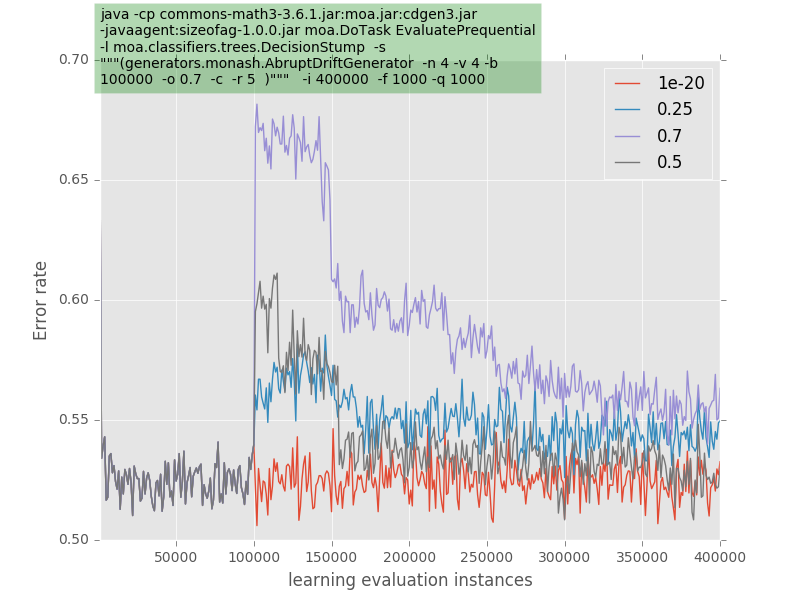
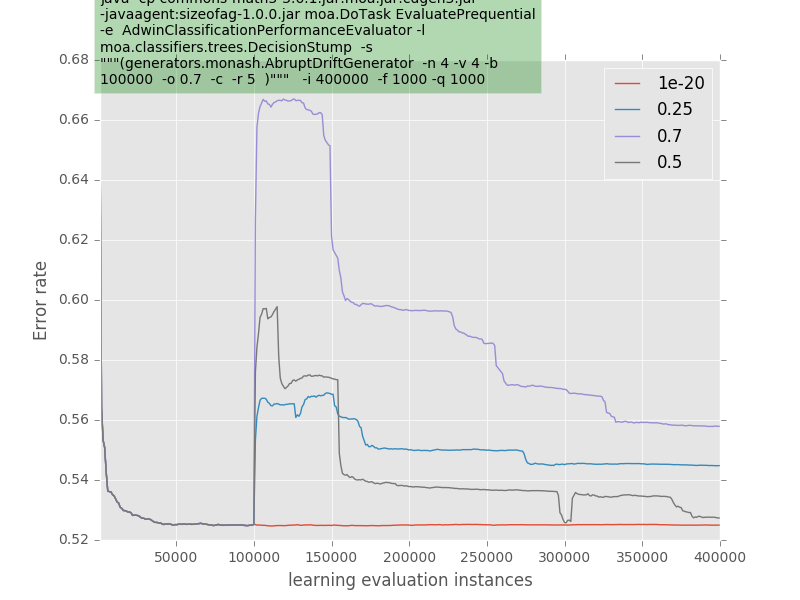
Same abrupt drift results, but with ADWIN prequential evaluator

diff --git a/evaluators.py b/evaluators.py
@@ -2,12 +2,16 @@
 
 MOA_TASK_PREFIX = "moa.DoTask"
 
+
 MOA_TASK_OPTION_EVALUATE_INTERLEAVED_TEST_THEN_TRAIN = "EvaluateInterleavedTestThenTrain"
 MOA_TASK_OPTION_EITTT = "EvaluateInterleavedTestThenTrain"
 MOA_TASK_EITTT = " ".join([MOA_TASK_PREFIX, MOA_TASK_OPTION_EITTT])
 
 MOA_TASK_OPTION_EVALUATE_PREQUENTIAL = "EvaluatePrequential"
 MOA_TASK_EVALUATE_PREQUENTIAL = " ".join([MOA_TASK_PREFIX, MOA_TASK_OPTION_EVALUATE_PREQUENTIAL])
+
+MOA_TASK_OPTION_EVALUATE_PREQ_ADWIN = "AdwinClassificationPerformanceEvaluator"
+MOA_TASK_EVALUATE_PREQ_ADWIN = " ".join([MOA_TASK_EVALUATE_PREQUENTIAL, " -e ", MOA_TASK_OPTION_EVALUATE_PREQ_ADWIN])
 
 class Evaluator:
 
@@ -22,9 +26,10 @@ class EvaluatorBuilder:
   def EvaluateInterleavedTestThenTrainBuilder():
     return Evaluator(MOA_TASK_EITTT)
 
-class EvaluatorBuilder:
-
   @staticmethod
   def EvaluatePrequentialBuilder():
     return Evaluator(MOA_TASK_EVALUATE_PREQUENTIAL)
 
+  @staticmethod
+  def EvaluatePrequentialAdwinBuilder():
+    return Evaluator(MOA_TASK_EVALUATE_PREQ_ADWIN)

diff --git a/experiments.py b/experiments.py
@@ -46,7 +46,8 @@ class CompositeExperimentRunner:
     utilities.remove_folder(mcv.OUTPUT_DIR)
     utilities.make_folder(mcv.OUTPUT_DIR)
 
-    evaluator = evl.EvaluatorBuilder.EvaluatePrequentialBuilder()
+    evaluator = evl.EvaluatorBuilder.EvaluatePrequentialAdwinBuilder()
+    #evaluator = evl.EvaluatorBuilder.EvaluatePrequentialBuilder()
 
     #prior_drift_mag_exp = CompositeExperimentBuilder.varyPriorDriftMagBuilder(mcv.NUM_STREAMS, mcv.OUTPUT_DIR, mcv.OUTPUT_PREFIX, this.processes, evaluator, learner)
     conditional_drift_mag_exp = CompositeExperimentBuilder.varyConditionalDriftMagBuilder(mcv.NUM_STREAMS, mcv.OUTPUT_DIR, mcv.OUTPUT_PREFIX, this.processes, evaluator, learner)
